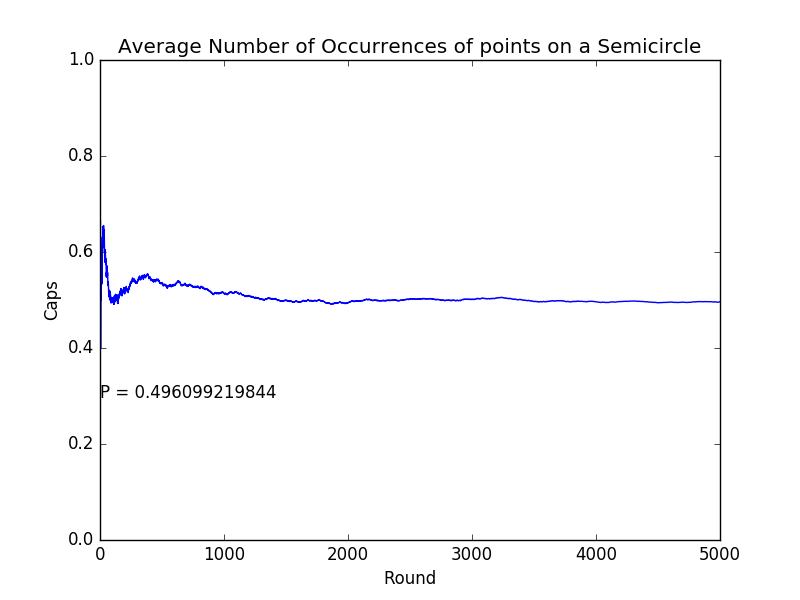
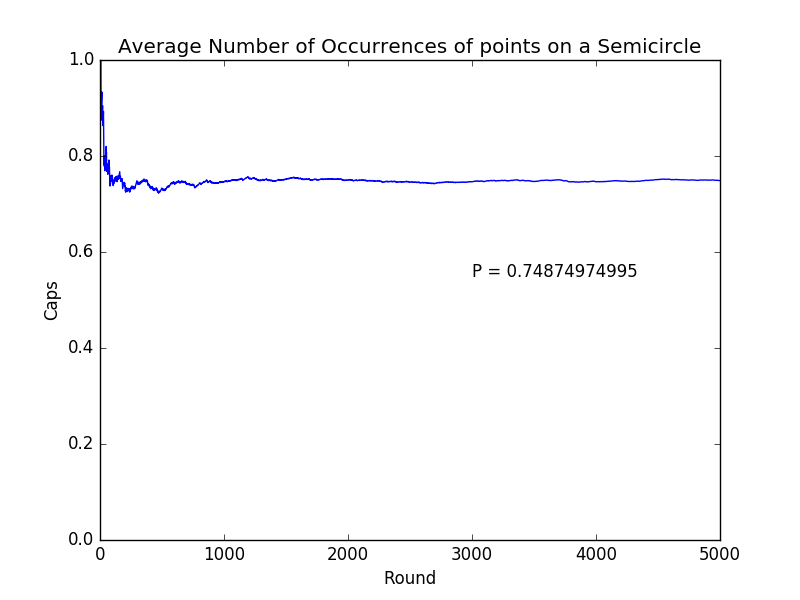
Updated semicircle graph

diff --git a/proj2/Semicircle.py b/proj2/Semicircle.py
@@ -3,7 +3,7 @@ import matplotlib.pyplot as plt
 import math
 import numpy as np
 
-rounds = 80000
+rounds = 5000
 avg = np.zeros(rounds)
 inSemi = 0
 
@@ -28,7 +28,7 @@ plt.plot(avg)
 plt.title("Average Number of Occurrences of points on a Semicircle");
 plt.xlabel("Round")
 plt.ylabel("Caps")
-plt.annotate("P = " +  str(avg[rounds -1]), xy = (rounds - 5000, avg[rounds - 1] - .2))
+plt.annotate("P = " +  str(avg[rounds -1]), xy = (rounds - 2000, avg[rounds - 1] - .2))
 plt.show()
 print("p = ")
 print(avg[rounds - 1])
